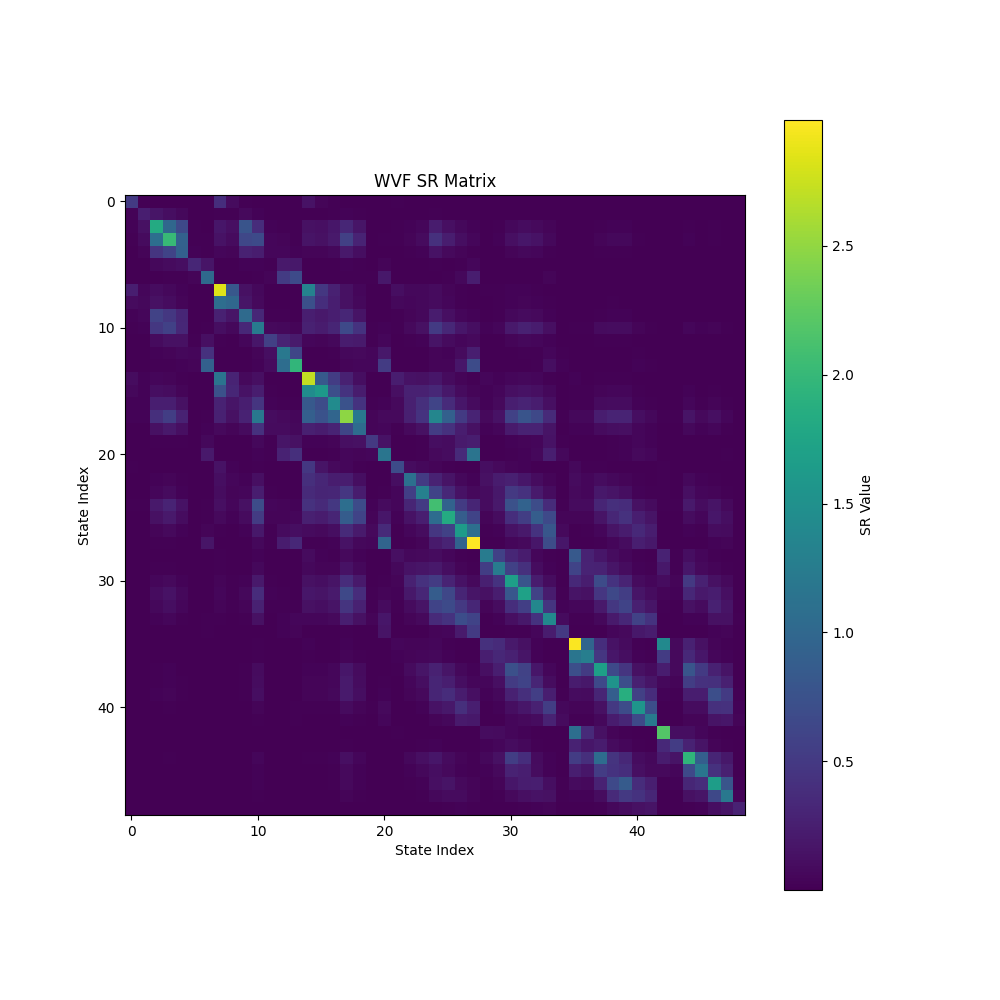
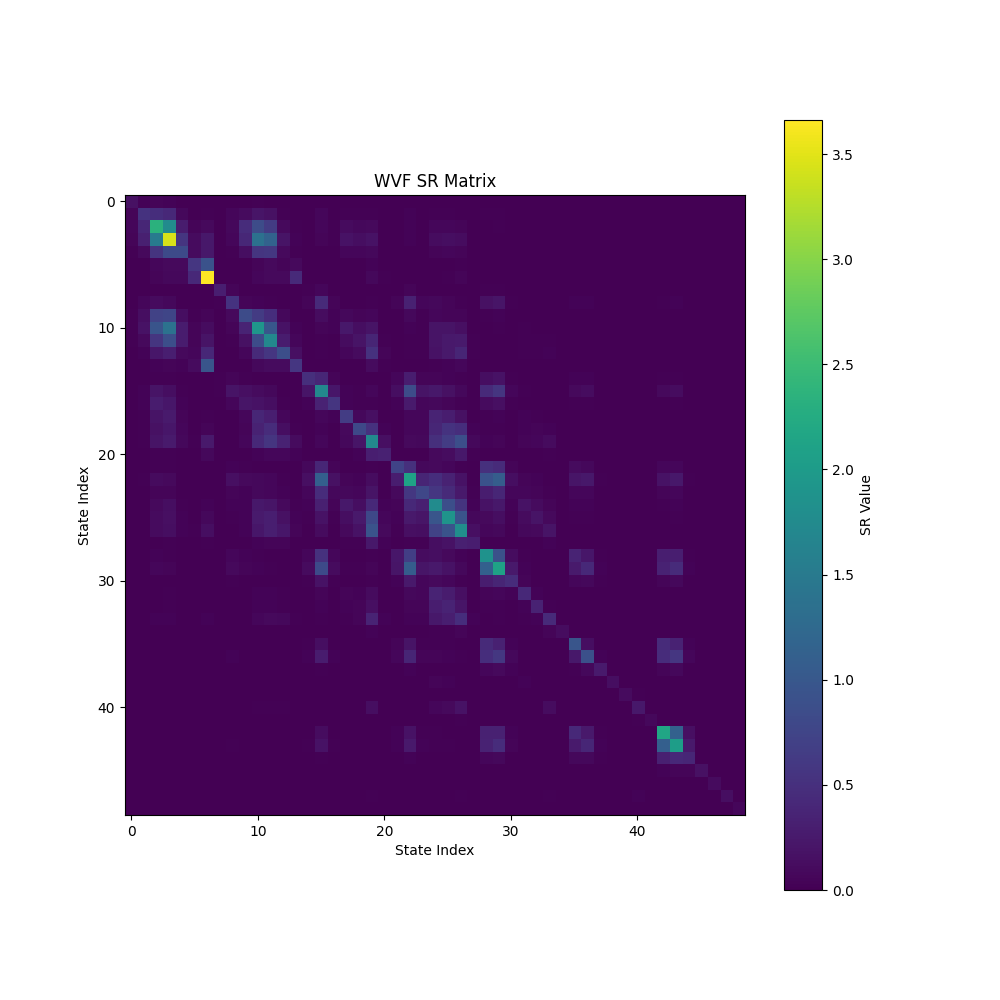
Big run test

diff --git a/SRGoalSlice.py b/SRGoalSlice.py
@@ -760,7 +760,7 @@ def experiment_sarsa_wvf(train_episode_length,test_episode_length,episodes,gamma
     
     # number of exepriments = goal slices size
     # The list that containt the number of goal sizes
-    goal_sizes = [49, 39, 29, 19, 9]  # Example goal sizes (can be changed)
+    goal_sizes = [30, 35, 40, 45, 49]  # Example goal sizes (can be changed)
 
     # Initialize empty lists to store results
     results = []
@@ -809,7 +809,7 @@ train_episode_length = 100
 test_episode_length = 100
 
 # number of episodes per experiment
-episodes = 1000
+episodes = 50000
 
 # parameters for agent
 gamma = 0.8
